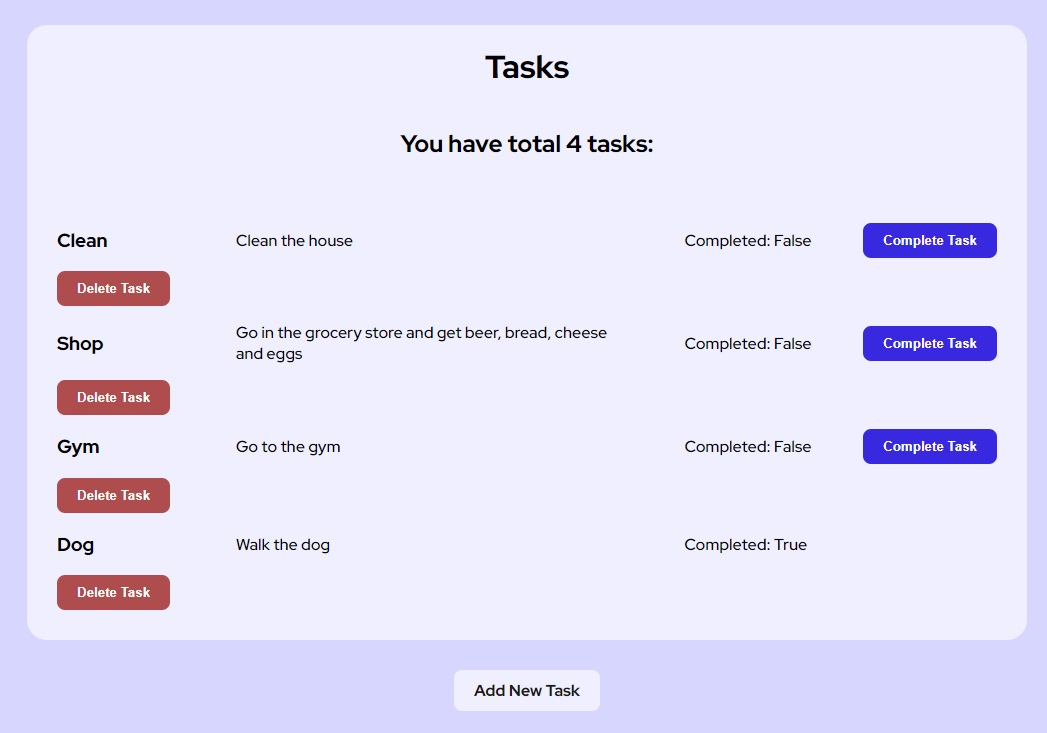
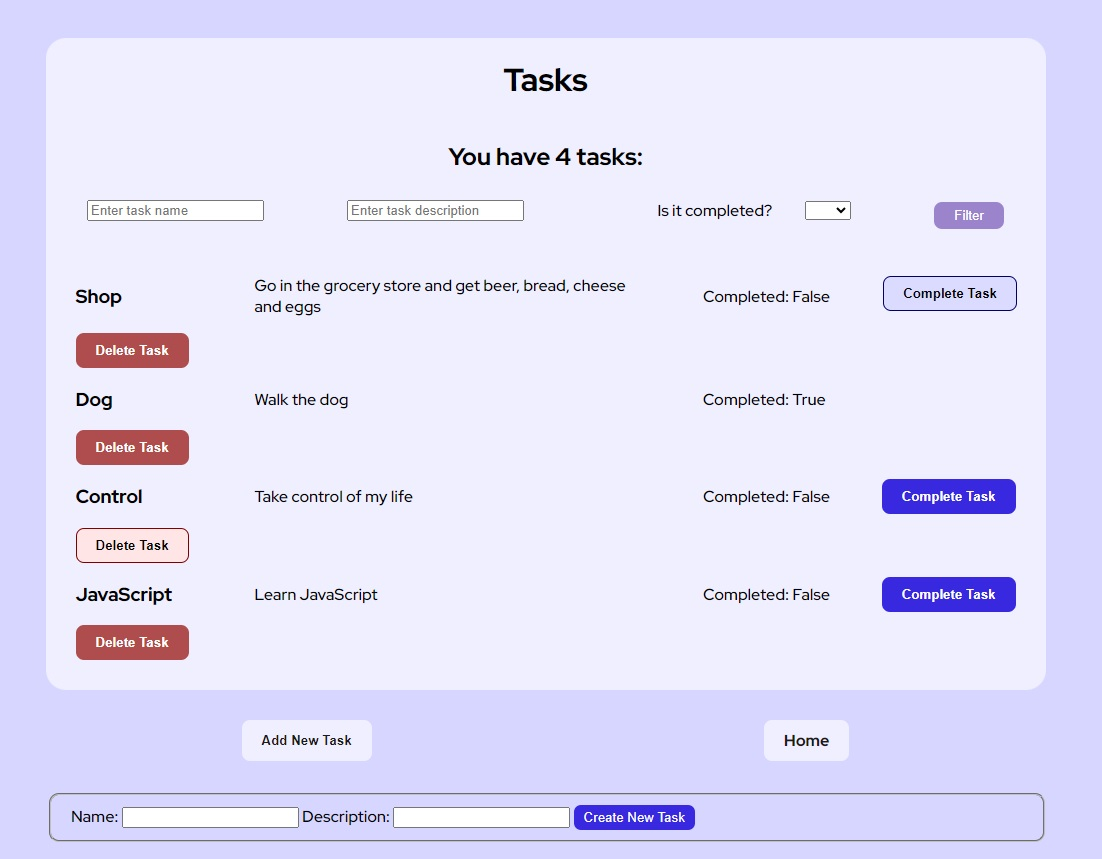
changed screenshot

diff --git a/templates/index.html b/templates/index.html
@@ -18,7 +18,7 @@
             {% if tasks|length == 1 %}
                 <h2>You have only 1 task:</h2>
             {% else %}
-                <h2>You have total {{ tasks|length }} tasks:</h2>
+                <h2>You have {{ tasks|length }} tasks:</h2>
             {% endif %}
                 <form class="filter-form" action="/" method="get">
                     <input

diff --git a/static/css/style.css b/static/css/style.css
@@ -144,6 +144,14 @@ a:hover, #new_task:hover, .complete_task:hover {
     cursor: pointer;
 }
 
+.filter-form > button:hover {
+    padding: 5px 19px;
+    color: hsl(0, 0%, 0%);
+    background-color: #dbdbff;
+    border: #000066 1px solid;
+    cursor: pointer;
+}
+
 .delete_task:hover {
     padding: 9px 19px;
     color: hsl(0, 0%, 0%);
